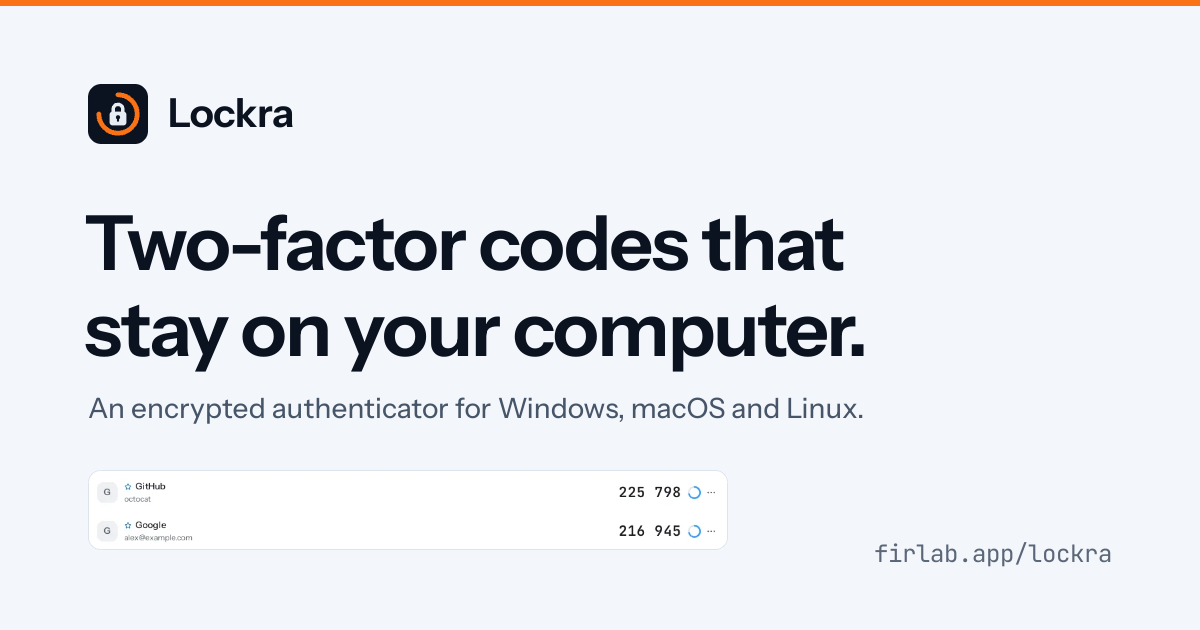
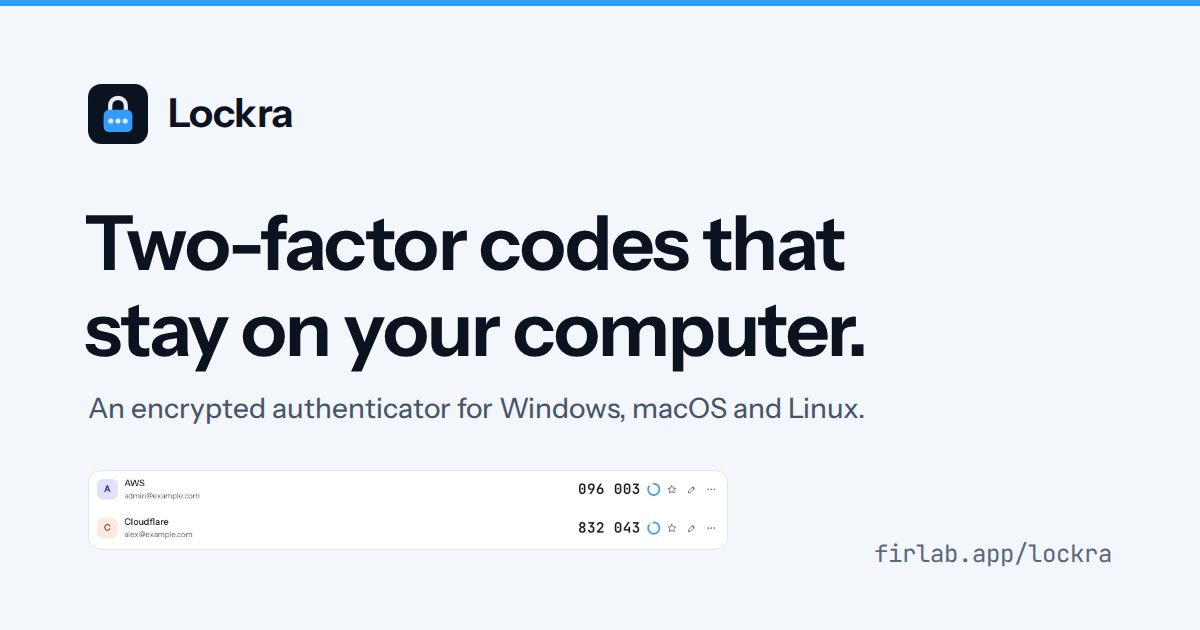
feat(site): Lockra 换用蓝色码点锁图标与配色 (#75)

diff --git a/lockra/src/.vitepress/theme/styles/tokens.css b/lockra/src/.vitepress/theme/styles/tokens.css
@@ -1,10 +1,10 @@
 /*
  * Lockra documentation palette: the Voltip site's (voltip/src/.vitepress/theme/styles/tokens.css),
- * unchanged.
+ * with Lockra's own mark colour in place of Voltip's orange.
  *
  * FirLab's ramp (firlab/DESIGN.md §1 and §10), which is itself read off the product
- * marks: ink #0B1220, pale #E7EDF5, orange #F97316 — the Lockra icon's own three
- * values, as they are Voltip's — plus teal #14B8A6 and slate #64748B. Nothing on this site is purple:
+ * marks: ink #0B1220, pale #E7EDF5, blue #339CFF — the Lockra icon's own three
+ * values (Voltip's third is orange) — plus teal #14B8A6 and slate #64748B. Nothing on this site is purple:
  * VitePress's indigo (its default brand), purple ("important" blocks), sponsor pink
  * and hero gradient are all remapped below.
  *
@@ -15,7 +15,7 @@
  *
  * Contrast, measured (WCAG 2.x): every text colour here is at least 4.5:1 on the
  * surfaces it is used on — the lowest is light --lk-ink-400 on --lk-paper-2, 4.87:1.
- * The brand orange #F97316 measures 2.73:1 on paper, so it only ever marks (dots,
+ * The brand blue #339CFF measures 2.79:1 on paper, so it only ever marks (dots,
  * the logo), never text.
  *
  * Dark ramp: FirLab's measured OKLCH steps (sheet L 18.5, desk 16.7, block 30.3,
@@ -44,8 +44,8 @@
   --lk-link-line: rgb(11 18 32 / 0.3); /* a link's underline at rest */
   --lk-fill: rgb(11 18 32 / 0.06); /* secondary buttons, the active sidebar row */
   --lk-fill-hover: rgb(11 18 32 / 0.1);
-  --lk-mark: #f97316; /* marks only, never text */
-  --lk-mark-soft: rgb(249 115 22 / 0.12);
+  --lk-mark: #339cff; /* marks only, never text */
+  --lk-mark-soft: rgb(51 156 255 / 0.12);
   --lk-live: #0d6b64; /* "available" */
   --lk-live-mark: #14b8a6;
   --lk-live-soft: rgb(20 184 166 / 0.12);
@@ -97,7 +97,7 @@
   --lk-link-line: rgb(236 239 243 / 0.34);
   --lk-fill: rgb(236 239 243 / 0.09);
   --lk-fill-hover: rgb(236 239 243 / 0.14);
-  --lk-mark-soft: rgb(249 115 22 / 0.16);
+  --lk-mark-soft: rgb(51 156 255 / 0.16);
   --lk-live: #2dd4bf;
   --lk-live-mark: #2dd4bf;
   --lk-live-soft: rgb(45 212 191 / 0.12);
